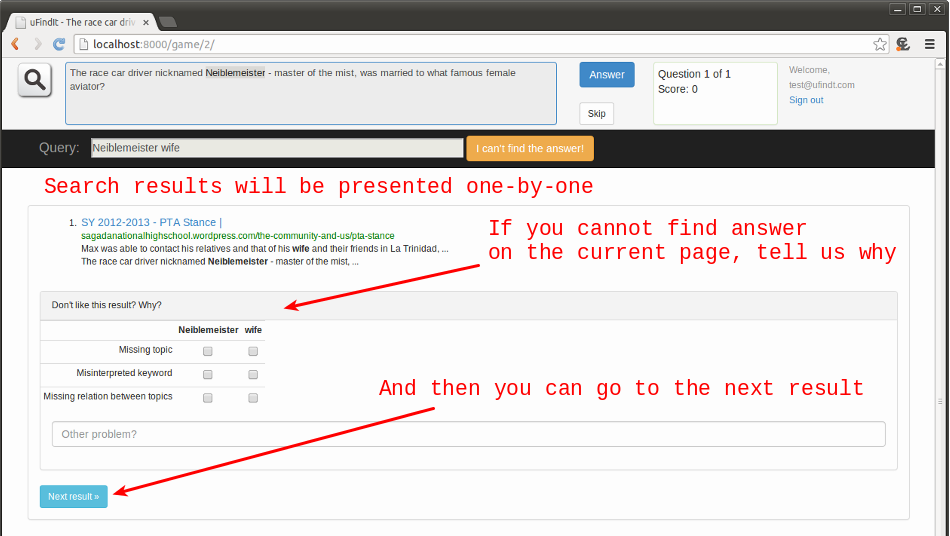
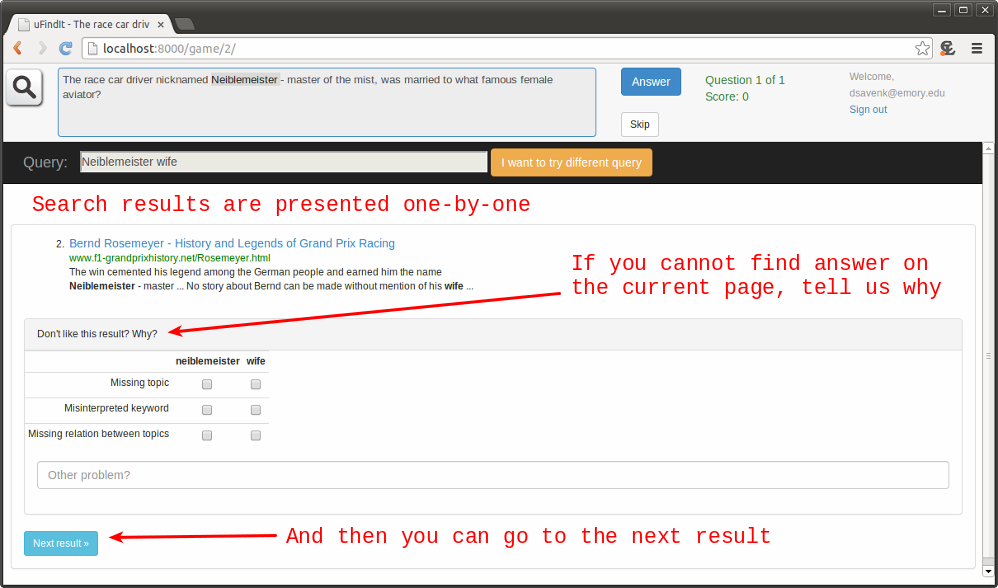
Fixes based on Eugene suggestions

Changed region(s): [[0.0, 0.0299, 1.0, 1.0], [0.8242, 0.1194, 0.9463, 0.209], [0.9463, 0.0, 1.0, 0.0299]]

diff --git a/querydifficulty/templates/query_difficulty_serp.html b/querydifficulty/templates/query_difficulty_serp.html
@@ -6,7 +6,7 @@
       <div class="input-append">
         <input type="text" value="{{ query }}" id="queryText" name="q" size="60" autocomplete="off">
         <button type="submit" class="btn btn-success" id="search" data-loading-text="Searching...">Search</button>
-        <button type="button" data-toggle="modal" id="queryDifficultyButton" href="#queryDifficulty" class="btn btn-warning">I can't find the answer!</button>
+        <button type="button" data-toggle="modal" id="queryDifficultyButton" href="#queryDifficulty" class="btn btn-warning">I want to try different query</button>
       </div>
     </form>
 {% endblock %}
@@ -84,7 +84,7 @@
   </form>
   {# URL problem panel : END #}
   <div id="fillFormAlert" class="alert alert-danger hide">If you don't like this result please specify why...</div>
-  <a class="btn btn-sm btn-info pager_button" href="{% if results.has_next %}?q={{query}}&page={{ results.next_page_number }}{% else %}#{% endif %}">Next result &raquo;</a>
+  <a class="btn btn-sm btn-info pager_button" href="{% if results.has_next %}?q={{query}}&page={{ results.next_page_number }}{% else %}?q={{query}}&page=1{% endif %}">Next result &raquo;</a> Result {{ results.start_index }} of {{ pages_number }}
 {% endblock %}
 
 {% block extracode %}
@@ -105,6 +105,12 @@
             <div class="control-group">
               <div class="controls">
                 <div class="checkbox">
+                  <label for="query_difficulty-3">
+                    <input type="checkbox" name="query_difficulty" id="query_difficulty-3" value="I found an answer to a subtask and need to do more searches to find the answer to the whole question.">
+                      I found an answer to a subtask and need to do more searches to find the answer to the whole question.
+                  </label>
+                </div>
+                <div class="checkbox">
                   <label for="query_difficulty-0">
                     <input type="checkbox" name="query_difficulty" id="query_difficulty-0" value="Documents are about the topic of interest, but don't contain the answer to the question.">
                       Documents are about the topic of interest, but don't contain the answer to the question.
@@ -117,9 +123,9 @@
                   </label>
                 </div>
                 <div class="checkbox">
-                  <label for="query_difficulty-6">
-                    <input type="checkbox" name="query_difficulty" id="query_difficulty-6" value="Documents are about different interpretation of the main topic of the query.">
-                      There are no documents about the main topic of the query.
+                  <label for="query_difficulty-2">
+                    <input type="checkbox" name="query_difficulty" id="query_difficulty-2" value="Documents are about different interpretation of the main topic of the query.">
+                      There are no documents about the topic of the query.
                   </label>
                 </div>
                 <br />

diff --git a/querydifficulty/templates/survey.html b/querydifficulty/templates/survey.html
@@ -86,7 +86,7 @@
 
       <div class="form-group">
         <li>
-        <label class="control-label">* How difficult the game was?</label><br />
+        <label class="control-label">* How difficult was the game?</label><br />
         <div class="radio">
           <label>
             <input type="radio" name="easy" id="optionsRadios1" value="2">
@@ -118,7 +118,7 @@
 
       <div class="form-group">
         <li>
-        <label class="control-label">* How distracting was it to answer questions on what didn't you like in search results?</label><br />
+        <label class="control-label">* How distracting was it to have to answer questions about search result quality?</label><br />
         <div class="radio">
           <label>
             <input type="radio" name="distract" id="optionsRadios1" value="-1">
@@ -133,14 +133,14 @@
         <div class="radio">
           <label>
             <input type="radio" name="distract" id="optionsRadios1" value="1">
-            Exteremely distracting
+            Extremely distracting
         </div>
         </li>
       </div>
 
       <div class="form-group">
         <li>
-        <label class="control-label">* How easy was it to answer questions on what didn't you like in search results?</label><br />
+        <label class="control-label">* How difficult was it to answer questions about search result quality?</label><br />
         <div class="radio">
           <label>
             <input type="radio" name="query_easy" id="optionsRadios1" value="-1">
@@ -161,7 +161,7 @@
       </div>
       <div class="form-group">
           <label for="qdiff_feedback" class="control-label">
-            Please comment on your experience answering questions on 'What didn't you like in current search results?':
+            Please comment on your experience answering questions on individual results quality:
           </label>
           <textarea rows="3" name="qdiff_feedback" class="form-control"></textarea>
       </div>

diff --git a/querydifficulty/templates/rules5.html b/querydifficulty/templates/rules5.html
@@ -5,7 +5,7 @@
 <div class="container">
   <h2>Search results <small>Please read carefully</small></h2>
 
-  Clicked document will be opened in the same window (unless you right click it in the search results page and choose open in a new tab). To go back to the search results simply click your browser Back button as shown on the picture.
+  Clicked document will be opened in a new tab. You can always go back to search results if you close the current tab or just select the game tab in your browser.
 
   <hr />
 

diff --git a/querydifficulty/templates/rules3.html b/querydifficulty/templates/rules3.html
@@ -5,7 +5,7 @@
 <div class="container">
   <h2>Query reformulation <small>Please read carefully</small></h2>
 
-  If search results for a query are not satisfactory and you want try a different search query, please click the 'I can't find the answer!' button.
+  If search results for a query are not satisfactory and you want try a different search query, please click the 'I want to try different query' button.
 
   <hr />
 

diff --git a/ufindit/settings.py b/ufindit/settings.py
@@ -217,6 +217,13 @@ MTURK_HIT_REWARD=2
 MTURK_APPROVAL_DELAY=48
 MTURK_APPROVED_PERCENT_REQUIREMENT=0
 MTURK_MASTERS_REQUIREMENT=True
+MTURK_GAME_TITLE = 'Search Game'
+MTURK_GAME_DESCRIPTION = 'The goal of the game is to use web search to find answers ' + \
+                         'to the given questions. There will be 5 questions asked. ' + \
+                         'Also, you will need to provide feedback on search results ' + \
+                         'quality. NOTE: you may get a warning from your browser ' + \
+                         'saying something like "The identity of the webserver cannot ' + \
+                         'be verified", just click proceed anyway.'
 
 # EMU settings
 ENABLE_EMU_LOGGING = False

diff --git a/ufindit/mturk.py b/ufindit/mturk.py
@@ -55,9 +55,8 @@ class MTurkProxy:
             hit_type=None,
             lifetime=datetime.timedelta(hours=settings.MTURK_HIT_LIFETIME_HOURS),
             max_assignments=settings.MTURK_MAX_ASSIGNMENTS,
-            title = 'Search Game',
-            description = 'You will need to search answers to the questions '
-                'given using the provided search engine',
+            title = settings.MTURK_GAME_TITLE,
+            description = settings.MTURK_DESCRIPTION,
             keywords = 'search',
             reward = settings.MTURK_HIT_REWARD,
             duration = datetime.timedelta(hours=settings.MTURK_HIT_DURATION),

diff --git a/ufindit/views.py b/ufindit/views.py
@@ -83,6 +83,7 @@ def search(request, task_id, template='serp.html'):
         start_page = max([1, page - 3])
         end_page = min([paginator.num_pages + 1, page + 4])
         context['page_numbers'] = range(start_page, end_page)
+        context['pages_number'] = paginator.num_pages
         # Log query event
         EventLogger.query(player_task, query, serp, context['results'].number)
     context['enable_emu'] = settings.ENABLE_EMU_LOGGING

diff --git a/ufindit/models.py b/ufindit/models.py
@@ -129,6 +129,9 @@ class UserSerpResultsOrder(models.Model):
     order = models.CommaSeparatedIntegerField(blank=True, null=True,
         max_length=512, db_index=True, help_text=u'The order of results to show')
 
+    def __unicode__(self):
+        return self.player.user.username + " Query:" + self.serp.query
+
     class Meta:
         unique_together = ("serp", "player")
 

diff --git a/querydifficulty/views.py b/querydifficulty/views.py
@@ -44,7 +44,6 @@ def submit_url_problem(request, task_id):
     misinterpreted_terms = ''
     missing_relation_terms = ''
     extra = ''
-    print request.POST
     if 'missing[]' in request.POST:
         missing_terms = ','.join(request.POST.getlist('missing[]'))
     if 'misinterpreted[]' in request.POST:
